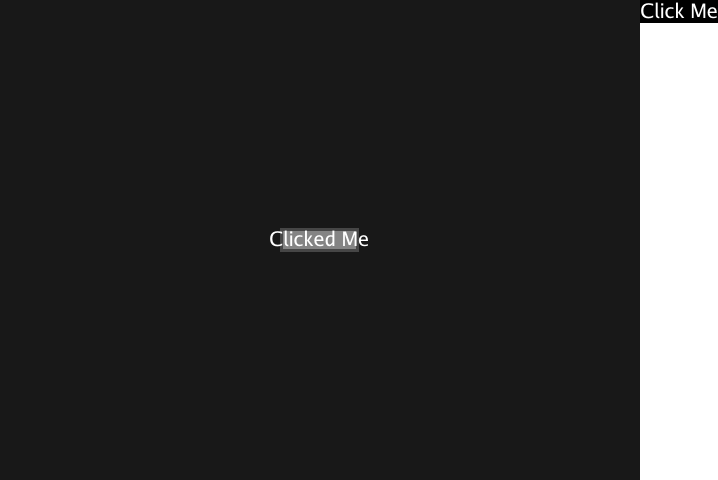
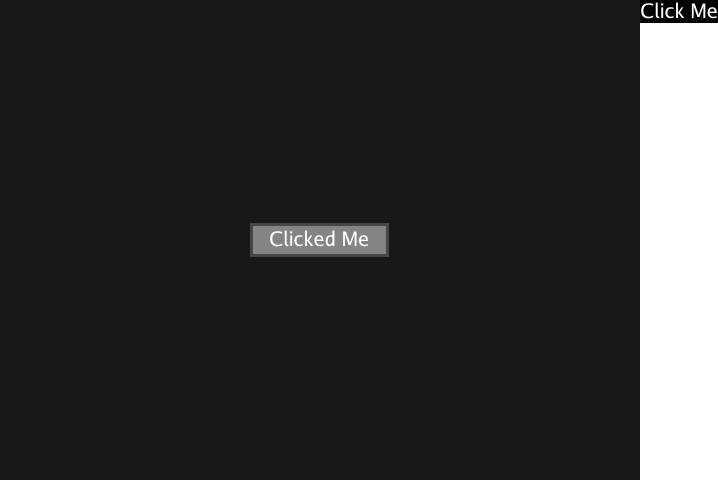
README: Updated docs

Changed region(s): [[0.337, 0.4375, 0.5515, 0.5625]]

diff --git a/gameui_test.go b/gameui_test.go
@@ -57,6 +57,13 @@ func newGameUI() *gameui {
 			Idle: color.White,
 		}),
 
+		widget.ButtonOpts.TextPadding(&widget.Insets{
+			Left:   30,
+			Right:  30,
+			Top:    5,
+			Bottom: 5,
+		}),
+
 		// add a handler that reacts to clicking the button.
 		widget.ButtonOpts.ClickedHandler(func(args *widget.ButtonClickedEventArgs) {
 			button.Text().Label = text2

diff --git a/README.md b/README.md
@@ -103,7 +103,7 @@ make: *** [Makefile:7: test] Error 1
 And if you open the `_ebitest_dump/019b1537-1c60-7041-ad54-0297ea4b0eef.png` (on the current path) you see
 
 <p align="center">
-    <img src="docs/error_image.png" width=25% height=25%>
+    <img src="docs/error_image.png" width=50% height=50%>
 </p>
 
 ## Plans
